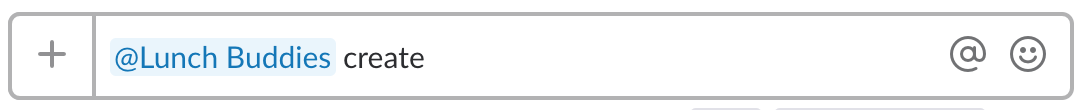
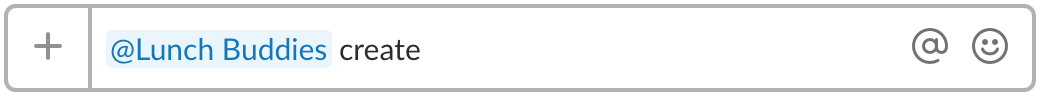
add better styling

Changed region(s): [[0.0, 0.0312, 1.0, 1.0], [0.0923, 0.375, 0.4308, 0.6562]]

diff --git a/index.html b/index.html
@@ -1,7 +1,6 @@
 <!DOCTYPE html>
 <head>
     <meta name="viewport" content="width=device-width, initial-scale=1">
-    <link href="https://fonts.googleapis.com/css?family=Cabin:400,500,600" rel="stylesheet">
     <link href="https://cdnjs.cloudflare.com/ajax/libs/github-markdown-css/2.10.0/github-markdown.css" rel="stylesheet">
     <link href="/css/index.css" rel="stylesheet">
     <style>
@@ -26,6 +25,17 @@
         gtag('js', new Date());
         gtag('config', 'UA-114677801-1');
     </script>
+    <script>
+        function copyToClipboard(text) {
+            // from https://hackernoon.com/copying-text-to-clipboard-with-javascript-df4d4988697f
+            const el = document.createElement('textarea');
+            el.value = text;
+            document.body.appendChild(el);
+            el.select();
+            document.execCommand('copy');
+            document.body.removeChild(el);
+        }
+    </script>
 </head>
 
 <body>
@@ -34,12 +44,13 @@
         <a href="https://ahlfhssbq3.execute-api.us-west-2.amazonaws.com/production/api/v0/install"><img alt="Add to Slack" height="40" width="139" src="https://platform.slack-edge.com/img/add_to_slack.png" srcset="https://platform.slack-edge.com/img/add_to_slack.png 1x, https://platform.slack-edge.com/img/add_to_slack@2x.png 2x" /></a>
         <h2>What is lunch buddies?</h2>
         <p>
-            This app helps build relationships between members of a growing team. Each week, users will have the opportunity to join a small group of teammates for lunch. The <code>@lunch_buddies_bot</code> takes care of all the logistics.
+            This app helps build relationships between teammates by scheduling participants into random
+            groups for lunch. The <code>@lunch_buddies_bot</code> takes care of all the logistics.
         </p>
         <h2>How does it work?</h2>
         <h3>Installation</h3>
         <p>Install the app using the button at the top of this page, or from the <a href="https://slack.com/apps/A8Z9J2Z1S-lunch-buddies">Slack App Directory</a>.</p>
-        <h3>Basic Usage</h2>
+        <h3 id="usage">Basic Usage</h3>
         <h4>Step 1: Invite your teammates to the "#lunch_buddies" channel</h4>
         <p>
             The app works by polling the members of a Slack channel to see who is interested in participating.
@@ -48,40 +59,65 @@
         <h4>Step 2: Create the poll</h4>
         <p>
             To initiate the process, type the following message in the #lunch_buddies channel.
-            <br /><img source="/img/create_1.png" />
         </p>
         <p>
-            <b>Advanced Options</b>
-        </p>
-        <p>
-            You can customize both the times of the poll and the size of the groups. Here are a few examples:
-            <br /><img source="/img/create_2.png" />
-            <br /><img source="/img/create_3.png" />
+            <img src="/img/create_1.png" class="example">
+            <button class="copy" onclick="copyToClipboard('@Lunch Buddies create')">
+                <img src="/img/copy.png" class="copy-icon">
+            </button>
         </p>
         <h4>Step 3: Respond to the poll</h4>
         <p>
             After receiving the <code>create</code> command, the bot will individually poll the members of the channel asking about participation.
-            <br /><img source="/img/poll.png" />
+        </p>
+        <p>
+            <img src="/img/poll.png" class="example">
         </p>
         <p>
             Participants can select their time preference or opt out.
         </p>
         <h4>Step 4: Close the poll</h4>
-        <p>Navigate back to the "#lunch_buddies" channel and type the following message:
-            <br /><img source="/img/close.png" />
+        <p>
+            Navigate back to the "#lunch_buddies" channel and type the following message:
+        </p>
+        <p>
+            <img src="/img/close.png" class="example">
+            <button class="copy" onclick="copyToClipboard('@Lunch Buddies close')">
+                <img src="/img/copy.png" class="copy-icon">
+            </button>
         </p>
         <p>
             The bot will randomly group people and start a group chat between all of them.
-            <br /><img source="/img/group.png" />
+        </p>
+        <p>
+            <img src="/img/group.png" class="example">
         </p>
         <h3>Advanced Usage</h3>
         <p>
+            You can customize both the times of the poll and the size of the groups. Here are a few examples:
+        </p>
+        <p>
+            <img src="/img/create_2.png" class="example">
+            <button class="copy" onclick="copyToClipboard('@Lunch Buddies create 1130,1230')">
+                <img src="/img/copy.png" class="copy-icon">
+            </button>
+        </p>
+        <p>
+            <img src="/img/create_3.png" class="example">
+            <button class="copy" onclick="copyToClipboard('@Lunch Buddies create 1130,1230 size=2')">
+                <img src="/img/copy.png" class="copy-icon">
+            </button>
+        </p>
+        <p>
             It is possible to have multiple polls going at the same time; they are uniquely defined by the channel from which they were created.
-            For example, you could "create" a poll in the #seattle_office channel and also in the #san_francisco_office channel. Members of each channel will be independently polled and grouped.
+            For example, you could "create" a poll in the #seattle_office channel and also in the #san_francisco_office channel.
+            Members of each channel will be independently polled and grouped.
         </p>
         <h2 id="privacy">Privacy policy</h2>
         <p>
-            This app will create a channel called "lunch-buddies" and will poll each member of that channel whenever the "/lunch_buddies_create" command is run. When the "/lunch_buddies_close" command is run, it will start a private group message with each group. The only information saved is the answers to the interactive question about participating.
+            This app will create a channel called "lunch-buddies" and will poll each member of that channel whenever the "create" command is run.
+            When the "close" command is run, it will start a private group message with each group.
+            The only information saved is the answers to the interactive question about participating.
         </p>
         <h2 id="support">Support</h2>
         <p>

diff --git a/registration/index.html b/registration/index.html
@@ -1,7 +1,6 @@
 <!DOCTYPE html>
 <head>
     <meta name="viewport" content="width=device-width, initial-scale=1">
-    <link href="https://fonts.googleapis.com/css?family=Cabin:400,500,600" rel="stylesheet">
     <link href="https://cdnjs.cloudflare.com/ajax/libs/github-markdown-css/2.10.0/github-markdown.css" rel="stylesheet">
     <link href="/css/index.css" rel="stylesheet">
     <style>
@@ -32,8 +31,7 @@
     <div class="markdown-body">
         <h2>Registration Complete!</h2>
         <p>
-            You have successfully registered the Lunch Buddies app! The next step is to join the <code>lunch_buddies</code> channel
-            and invite your teammates.
+            You have successfully registered the Lunch Buddies app! Read <a href="/#usage">here</a> for instructions on how to use this app.
         </p>
         <p>
             If you have any questions/comments/concerns/etc, please send an email to

diff --git a/css/index.css b/css/index.css
@@ -2,8 +2,21 @@ html, body {
     height: 100%;
 }
 
-.container-main {
-    font-size: 22px;
-    font-family: 'Cabin', sans-serif;
-    font-weight: 400;
+.instructions {
+    height: 40px;
+}
+
+.copy {
+    padding: 0;
+    border: none;
+    background: none;
+}
+
+.copy-icon {
+    height: 30px;
+    padding-bottom: 5px;
+}
+
+.example {
+    width: 440px;
 }
